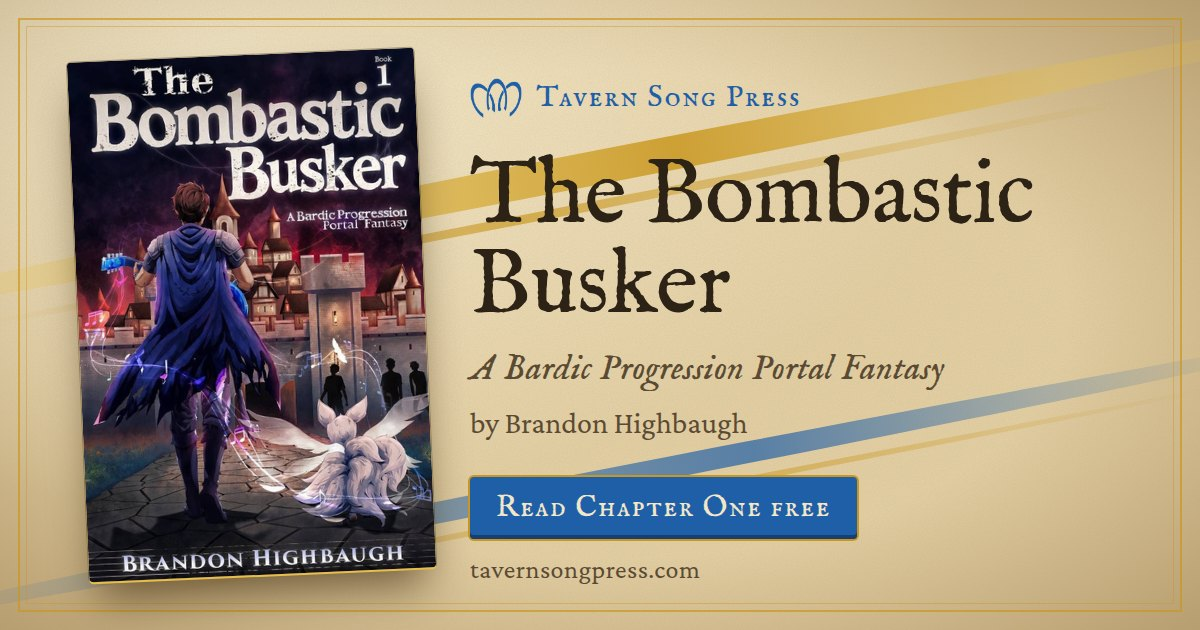
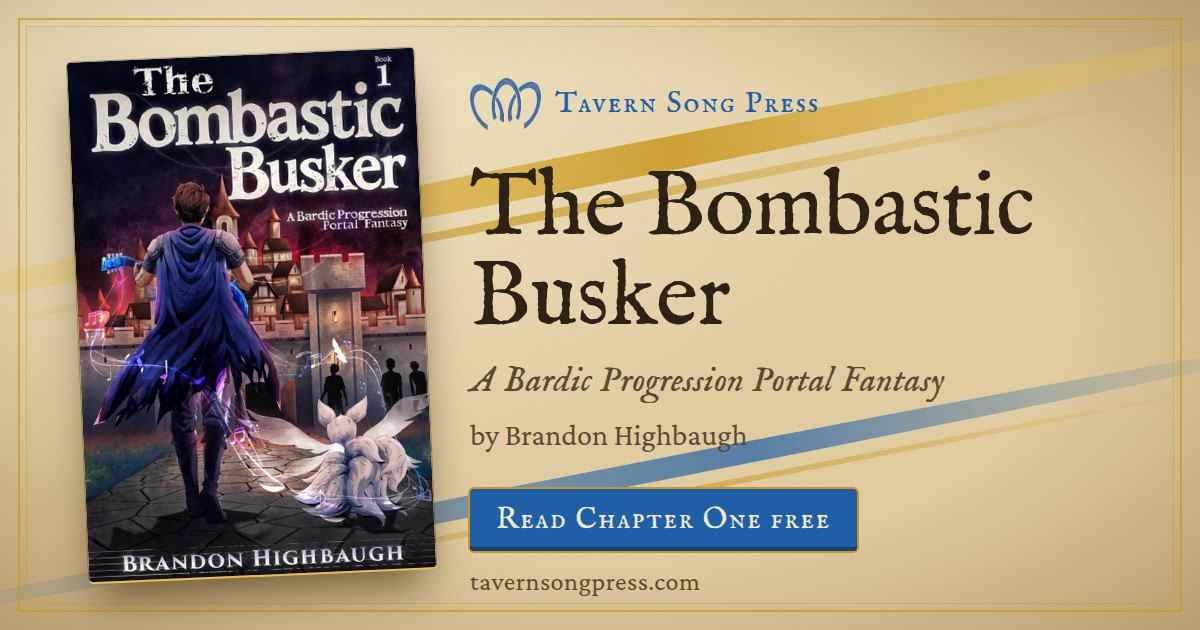
Ornate filigree arches for the emblem
Header logo, dividers and scene break use the blue arches with gold
filigree; the Royal Road button, favicon and share card use a parchment
badge; the home-screen icon is the TSP coin.

Claude-Session: https://claude.ai/code/session_01H6etvn8rNrT6q5hGH6H1bz

diff --git a/index.html b/index.html
@@ -70,7 +70,7 @@ a:hover { color: var(--azure-deep); }
 .mast { display: flex; align-items: center; justify-content: space-between; gap: 1rem; flex-wrap: wrap;
   padding-bottom: .9rem; border-bottom: 1px solid var(--rule); }
 .mark { display: flex; align-items: center; gap: .6rem; font: 1.35rem/1 var(--display); color: var(--ink); text-decoration: none; letter-spacing: .02em; }
-.mark img { width: auto; height: 1.9rem; flex: none; }
+.mark img { width: auto; height: 2.2rem; flex: none; }
 .mast nav { display: flex; gap: 1.25rem; font: 1rem/1 var(--display); letter-spacing: .04em; }
 .mast nav a { color: var(--ink-soft); text-decoration: none; }
 .mast nav a:hover { color: var(--azure); }
@@ -102,13 +102,13 @@ a:hover { color: var(--azure-deep); }
 .btn-gold { background: linear-gradient(180deg, var(--gold-bright), var(--gold)); color: var(--ink); box-shadow: inset 0 -3px 0 rgba(90,60,10,.35), 0 0 0 1px rgba(90,60,10,.35); }
 .btn-gold:hover { color: var(--ink); transform: translateY(-1px); }
 .btn svg { width: 1.1rem; height: 1.1rem; flex: none; }
-.btn-emblem { height: 1.05rem; width: auto; flex: none; }
+.btn-emblem { height: 1.6rem; width: 1.6rem; flex: none; margin-block: -.3rem; }
 .note { font-size: .98rem; color: var(--ink-soft); margin: .8rem 0 0; }
 
 /* chapter */
 .divider { display: flex; align-items: center; gap: 1rem; color: var(--gold); margin-block: 1rem; }
 .divider::before, .divider::after { content: ""; flex: 1; height: 1px; background: linear-gradient(90deg, transparent, var(--gold), transparent); }
-.divider img { width: auto; height: 1.5rem; flex: none; }
+.divider img { width: auto; height: 2.4rem; flex: none; }
 .chapter { position: relative; background: var(--vellum); max-width: 44rem; margin: 2rem auto; padding: clamp(1.5rem, 5vw, 3.25rem);
   border-radius: 2px; box-shadow: 0 0 0 1px var(--rule), 0 22px 40px -24px rgba(70,45,10,.5); }
 .chapter::before { content: ""; position: absolute; inset: .5rem; border: 1px solid rgba(201,151,31,.55); pointer-events: none; }
@@ -126,7 +126,7 @@ a:hover { color: var(--azure-deep); }
 .scene-break::before, .scene-break::after { content: ""; width: 5rem; max-width: 25%; height: 1px; }
 .scene-break::before { background: linear-gradient(90deg, transparent, var(--gold)); }
 .scene-break::after { background: linear-gradient(90deg, var(--gold), transparent); }
-.scene-break img { height: 1.4rem; width: auto; opacity: .85; }
+.scene-break img { height: 2rem; width: auto; }
 /* chapter reading window */
 .reader { position: relative; }
 .reader.is-collapsed .reader-window { max-height: min(34rem, 70vh); overflow-y: auto; overscroll-behavior: contain;
@@ -200,7 +200,7 @@ html { scroll-behavior: smooth; }
 <div class="leaf">
   <header class="mast" id="page-top">
     <a class="mark" href="#top" aria-label="Tavern Song Press home">
-      <img src="emblem.png" width="334" height="256" alt="">
+      <img src="emblem-arches.png" width="350" height="256" alt="">
       Tavern Song Press
     </a>
     <nav aria-label="Sections"><a href="#chapter-one">Chapter One</a><a href="#patreon">Read Ahead</a><a href="#author">Author</a><a href="#contact">Contact</a></nav>
@@ -233,14 +233,14 @@ html { scroll-behavior: smooth; }
       <p class="byline">by Brandon Highbaugh</p>
       <p class="pitch">Chanter spent years playing guitar on street corners and in dive bars. Now he's a changeling in a world that hunts his kind, and his first song turns coins, darts and fists into explosives.</p>
       <a class="btn btn-azure" href="https://www.royalroad.com/fiction/189111/the-bombastic-busker-a-bardic-progression-portal" target="_blank" rel="noopener">
-        <img class="btn-emblem" src="emblem-gold.png" width="334" height="256" alt="">
+        <img class="btn-emblem" src="emblem-badge.png" width="128" height="128" alt="">
         Read free on Royal Road
       </a>
       <p class="note">New chapters Monday-Friday</p>
     </div>
   </section>
 
-  <div class="divider" aria-hidden="true"><img src="emblem-gold.png" width="334" height="256" alt=""></div>
+  <div class="divider" aria-hidden="true"><img src="emblem-arches.png" width="350" height="256" alt=""></div>
 
   <article class="chapter" id="chapter-one" aria-labelledby="ch1-title">
     <header>
@@ -331,7 +331,7 @@ html { scroll-behavior: smooth; }
   <p>She recognized this field, her figure. They were programmed into the game. The character generation sequence. A blank slate to begin in a new world. It was <em>real</em>. But how?</p>
   <p>Text appeared, floating in front of her.</p>
   <p class="sys"><strong>[System booting…]</strong></p>
-  <div class="scene-break" aria-hidden="true"><img src="emblem-gold.png" width="334" height="256" alt=""></div>
+  <div class="scene-break" aria-hidden="true"><img src="emblem-arches.png" width="350" height="256" alt=""></div>
   <p>A year of my life, signed away with a few simple gestures on a tablet while standing in a semi-enclosed booth that made a mockery of any sense of privacy. Countless chimes of affirmation sounded as others signed, each for their own reasons.</p>
   <p>Me?</p>
   <p>Just a failed musician with nothing left.</p>
@@ -385,7 +385,7 @@ html { scroll-behavior: smooth; }
   </article>
 
   <section class="ahead" id="patreon" aria-labelledby="patreon-title">
-    <div class="divider" aria-hidden="true"><img src="emblem-gold.png" width="334" height="256" alt=""></div>
+    <div class="divider" aria-hidden="true"><img src="emblem-arches.png" width="350" height="256" alt=""></div>
     <h2 id="patreon-title">Can't wait for the next song?</h2>
     <p>Patrons read chapters before they reach Royal Road and help keep Chanter playing.</p>
     <a class="btn btn-gold" href="https://www.patreon.com/brandonhighbaugh" target="_blank" rel="noopener">
@@ -406,7 +406,7 @@ html { scroll-behavior: smooth; }
   </section>
 
   <section class="post" aria-label="Newsletter and contact">
-    <div class="divider" aria-hidden="true"><img src="emblem-gold.png" width="334" height="256" alt=""></div>
+    <div class="divider" aria-hidden="true"><img src="emblem-arches.png" width="350" height="256" alt=""></div>
     <div class="card" id="contact">
       <h2>Contact Brandon</h2>
       <p>Questions, kind words, or rights inquiries. Brandon reads every message.</p>
